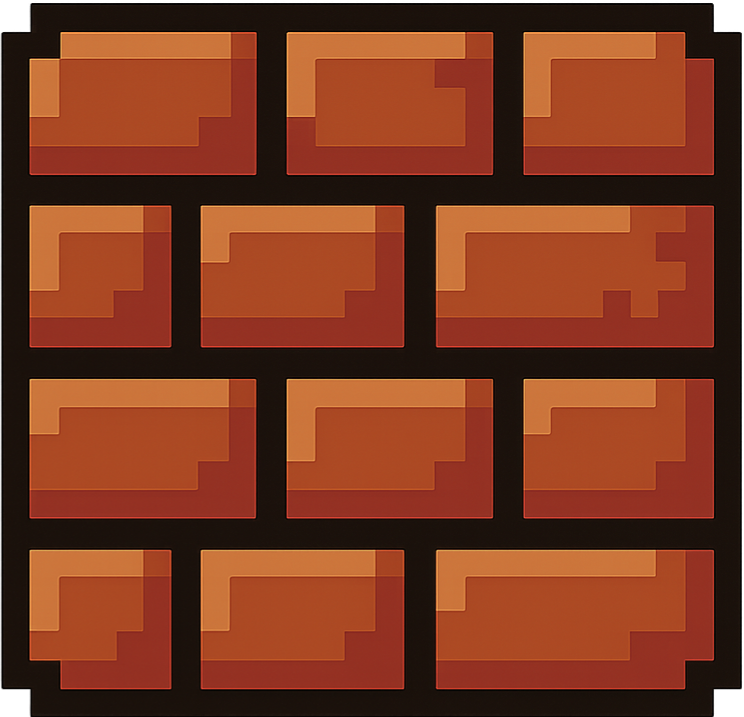
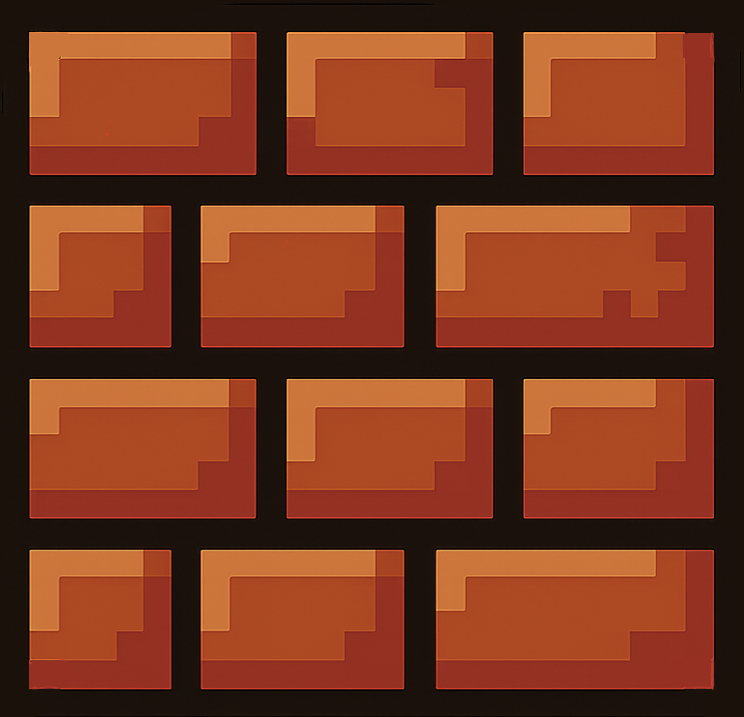
effet bricks

Changed region(s): [[0.0, 0.0, 1.0, 1.0], [0.0, 0.9205, 0.0927, 1.0]]

diff --git a/src/main/java/com/bomberman/model/Game.java b/src/main/java/com/bomberman/model/Game.java
@@ -24,6 +24,18 @@ public class Game {
     }
     private List<Explosion> explosions = new ArrayList<>();
 
+    // Nouvelle structure pour gérer les briques endommagées
+    private static class DamagedBrick {
+        int x, y;
+        int ticksRemaining;
+        DamagedBrick(int x, int y, int ticksRemaining) {
+            this.x = x;
+            this.y = y;
+            this.ticksRemaining = ticksRemaining;
+        }
+    }
+    private List<DamagedBrick> damagedBricks = new ArrayList<>();
+
     public Game(int width, int height, int playerCount) {
         this.grid = new Grid(width, height);
         this.players = new ArrayList<>();
@@ -88,7 +100,7 @@ public class Game {
 
     public void placeBomb(Player player) {
         if (!player.isAlive()) return; // Bloque la pose de bombe si joueur mort
-        // Vérifie s’il n’y a pas déjà une bombe sur la case
+        // Vérifie s'il n'y a pas déjà une bombe sur la case
         for (Bomb b : bombs)
             if (b.getX() == player.getX() && b.getY() == player.getY()) return;
         bombs.add(new Bomb(player.getX(), player.getY(), 3, 2)); // timer=3, range=2
@@ -120,11 +132,34 @@ public class Game {
                 expIt.remove();
             }
         }
+
+        // Tick des briques endommagées
+        Iterator<DamagedBrick> damagedIt = damagedBricks.iterator();
+        while (damagedIt.hasNext()) {
+            DamagedBrick damaged = damagedIt.next();
+            damaged.ticksRemaining--;
+            if (damaged.ticksRemaining <= 0) {
+                // Détruit définitivement la brique
+                if (grid.getCell(damaged.x, damaged.y) == Grid.CellType.DESTRUCTIBLE_DAMAGED) {
+                    grid.setCell(damaged.x, damaged.y, Grid.CellType.EMPTY);
+                }
+                damagedIt.remove();
+            }
+        }
     }
 
     private void addExplosion(int x, int y) {
-        grid.setCell(x, y, Grid.CellType.EXPLOSION);
-        explosions.add(new Explosion(x, y, 2)); // 1 tick = visible pendant un cycle
+        if (grid.getCell(x, y) != Grid.CellType.DESTRUCTIBLE_DAMAGED) {
+            grid.setCell(x, y, Grid.CellType.EXPLOSION);
+            explosions.add(new Explosion(x, y, 2)); // 1 tick = visible pendant un cycle
+        }
+    }
+
+    private void damageBrick(int x, int y) {
+        if (grid.getCell(x, y) == Grid.CellType.DESTRUCTIBLE) {
+            grid.setCell(x, y, Grid.CellType.DESTRUCTIBLE_DAMAGED);
+            damagedBricks.add(new DamagedBrick(x, y, 2));
+        }
     }
 
     private void explode(Bomb b) {
@@ -140,11 +175,22 @@ public class Game {
                 if (!grid.isInBounds(nx, ny)) break;
                 Grid.CellType c = grid.getCell(nx, ny);
                 if (c == Grid.CellType.INDESTRUCTIBLE) break;
-                addExplosion(nx, ny);
+
+                // Toujours endommager les joueurs
                 damagePlayersAt(nx, ny);
+
                 if (c == Grid.CellType.DESTRUCTIBLE) {
+                    // Brique normale : on l'endommage SANS explosion
+                    damageBrick(nx, ny);
+                    break;
+                } else if (c == Grid.CellType.DESTRUCTIBLE_DAMAGED) {
+                    // Brique déjà endommagée : on la détruit avec explosion
+                    addExplosion(nx, ny);
                     destroyWall(nx, ny);
                     break;
+                } else {
+                    // Case vide ou autres : explosion normale
+                    addExplosion(nx, ny);
                 }
             }
         }
@@ -159,7 +205,11 @@ public class Game {
     }
 
     private void destroyWall(int x, int y) {
-        if (grid.getCell(x, y) == Grid.CellType.DESTRUCTIBLE)
+        Grid.CellType cellType = grid.getCell(x, y);
+        if (cellType == Grid.CellType.DESTRUCTIBLE || cellType == Grid.CellType.DESTRUCTIBLE_DAMAGED) {
             grid.setCell(x, y, Grid.CellType.EMPTY);
+            // Supprime la brique de la liste des briques endommagées si elle y était
+            damagedBricks.removeIf(damaged -> damaged.x == x && damaged.y == y);
+        }
     }
 }

diff --git a/src/main/java/com/bomberman/controller/GameController.java b/src/main/java/com/bomberman/controller/GameController.java
@@ -43,6 +43,7 @@ public class GameController {
     // Images pour les murs
     private Image wallIndestructibleImg;
     private Image wallDestructibleImg;
+    private Image wallDamagedImg;
 
     // Image pour les bombes
     private Image bombImg;
@@ -72,6 +73,7 @@ public class GameController {
         avatarP2 = new Image(getClass().getResourceAsStream("/images/avatarsJoueurs/avatarRouge.png"));
         wallIndestructibleImg = new Image(getClass().getResourceAsStream("/images/elementsMap/murIndestructible.png"));
         wallDestructibleImg = new Image(getClass().getResourceAsStream("/images/elementsMap/murDestructible.png"));
+        wallDamagedImg = new Image(getClass().getResourceAsStream("/images/elementsMap/n-bricks.png")); // Chargement de l'image n-bricks
         bombImg = new Image(getClass().getResourceAsStream("/images/items/bombe.png"));
 
         try {
@@ -84,7 +86,7 @@ public class GameController {
             // Si les images ne sont pas trouvées, on utilise l'avatar par défaut
             if (player1Front.isError()) player1Front = avatarP1;
             if (player1Left.isError()) player1Left = avatarP1;
-            if (player1Right.isError()) player1Right = avatarP1; // Corrigé
+            if (player1Right.isError()) player1Right = avatarP1;
             if (player1Back.isError()) player1Back = avatarP1;
 
         } catch (Exception e) {
@@ -364,6 +366,7 @@ public class GameController {
                 switch (grid.getCell(x, y)) {
                     case INDESTRUCTIBLE -> gc.drawImage(wallIndestructibleImg, drawX, drawY, CELL_SIZE, CELL_SIZE);
                     case DESTRUCTIBLE   -> gc.drawImage(wallDestructibleImg, drawX, drawY, CELL_SIZE, CELL_SIZE);
+                    case DESTRUCTIBLE_DAMAGED -> gc.drawImage(wallDamagedImg, drawX, drawY, CELL_SIZE, CELL_SIZE);
                     case BOMB           -> {
                         // On dessine d'abord le sol, puis la bombe plus bas
                         gc.setFill(Color.rgb(0, 128, 64));
@@ -393,7 +396,8 @@ public class GameController {
                 }
                 // Si ce n'est pas un mur, on dessine la grille noire
                 if (grid.getCell(x, y) != com.bomberman.model.Grid.CellType.INDESTRUCTIBLE
-                        && grid.getCell(x, y) != com.bomberman.model.Grid.CellType.DESTRUCTIBLE) {
+                        && grid.getCell(x, y) != com.bomberman.model.Grid.CellType.DESTRUCTIBLE
+                        && grid.getCell(x, y) != com.bomberman.model.Grid.CellType.DESTRUCTIBLE_DAMAGED) {
                     gc.setStroke(Color.BLACK);
                     gc.strokeRect(drawX, drawY, CELL_SIZE, CELL_SIZE);
                 }

diff --git a/src/main/java/com/bomberman/model/Grid.java b/src/main/java/com/bomberman/model/Grid.java
@@ -5,6 +5,7 @@ public class Grid {
         EMPTY,             // Case vide
         INDESTRUCTIBLE,    // Mur indestructible (bordure ou obstacle central)
         DESTRUCTIBLE,      // Mur destructible (peut être détruit par une bombe)
+        DESTRUCTIBLE_DAMAGED, // Mur destructible endommagé (n-bricks)
         BOMB,              // Bombe présente sur la case
         EXPLOSION,         // Explosion temporaire (pour l'affichage)
         PLAYER1,           // Optionnel : présence d'un joueur (pour affichage)
